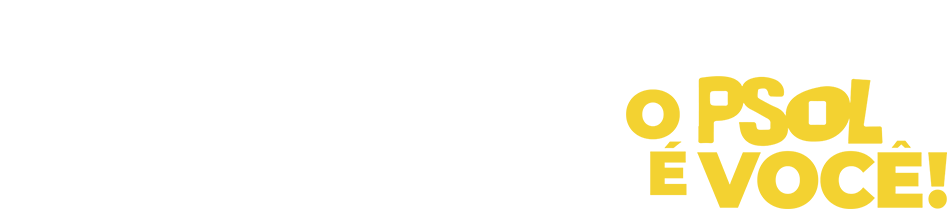
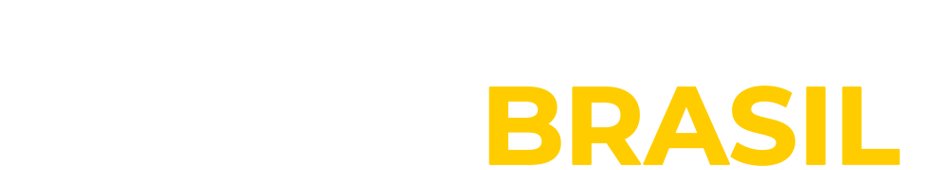
Update header

Changed region(s): [[0.4941, 0.3529, 1.0, 1.0]]

diff --git a/src/stylesheets/layout/_header.scss b/src/stylesheets/layout/_header.scss
@@ -1,42 +1,46 @@
 .site-header {
 	position: relative;
 	color: palette('white');
-	min-height: 560px;
+	min-height: 640px;
 	height: 70vh;
 	background-color: palette('gray', 'dark');
 	background-image:
-	url('../assets/images/backgrounds/capa-boulos_sonia-small.png'),
-	url('../assets/images/backgrounds/capa-fundo-small.jpg');
+	url('../assets/images/backgrounds/capa-fundo-very-small.jpg');
 	background-size:
-		450px auto,
-		cover;
+	cover;
 	background-position:
-		-5% bottom,
-		0 0;
+	center bottom;
+
 
 	@media screen and (min-width: breakpoint('phablet')) {
-	background-size:
-		500px auto,
+		background-image:
+		url('../assets/images/backgrounds/capa-boulos_sonia-small.png'),
+		url('../assets/images/backgrounds/capa-fundo-small.jpg');
+		height: 90vh;
+		background-size:
+		550px auto,
 		cover;
-	background-position:
-		55% bottom,
+		background-position:
+		1em bottom,
 		0 0;
-		min-height: 680px;
+		min-height: 620px;
 	}
 
 	@media screen and (min-width: breakpoint('tablet')) {
-		min-height: 800px;
+		background-image:
+		url('../assets/images/backgrounds/capa-boulos_sonia-medium.png'),
+		url('../assets/images/backgrounds/capa-fundo-medium.jpg');
 		height: 90vh;
 		background-size:
-		600px auto,
+		680px auto,
 		cover;
 		background-position:
-		55% bottom,
+		1em bottom,
 		0 0;
+		min-height: 720px;
 	}
 
 	@media screen and (min-width: breakpoint('desktop')) {
-		min-height: 810px;
 		background-image:
 		url('../assets/images/backgrounds/capa-boulos_sonia.png'),
 		url('../assets/images/backgrounds/capa-fundo.jpg');
@@ -46,14 +50,18 @@
 		background-position:
 		center bottom,
 		0 0;
+		min-height: 780px;
 	}
 
 	@media screen and (min-width: breakpoint('wide')) {
 		height: 100vh;
-		min-height: 910px;
+		min-height: 870px;
+		background-image:
+		url('../assets/images/backgrounds/capa-boulos_sonia.png'),
+		url('../assets/images/backgrounds/capa-fundo.jpg');
 		background-size:
-			870px auto,
-			cover;
+		750px auto,
+		cover;
 		background-position:
 			center bottom,
 			0 0;
@@ -70,17 +78,17 @@
 }
 
 #home__greetings {
-	padding-top: 5em;
+	margin-top: 10em;
 
 	@media screen and (min-width: breakpoint('phablet')) {
-		padding-top: 4.5em;
+		margin-top: 10em;
 	}
 
 	@media screen and (min-width: breakpoint('tablet')) {
-		padding-top: 2.5em;
+		margin-top: 10em;
 	}
-	@media screen and (min-width: breakpoint('desktop')) {
-		padding-top: 3.8em;
+	@media screen and (min-width: breakpoint('wide')) {
+		margin-top: 12em;
 	}
 }
 
@@ -92,8 +100,8 @@
 	text-align: center;
 
 	@media screen and (min-width: breakpoint('desktop')) {
+		max-width: 760px;
 		text-align: right;
-		max-width: 947px;
 	}
 	@media screen and (min-width: breakpoint('wide')) {
 		max-width: 1000px;
@@ -101,65 +109,84 @@
 }
 
 .site-label h1 {
-	position: relative;
-	@include image-replacement;
-	min-width: 280px;
-	min-height: 159px;
-	margin-bottom: -0.1em;
-	display: block;
+	padding: 0;
+	font-family: 'Montserrat', sans-serif;
+	text-align: center;
+	line-height: 1em;
+	font-weight: bold;
+	color: palette('header','white');
+	margin: 0;
 
-	background-image: url('../assets/images/backgrounds/text-image-phone.png');
-	background-position: center center;
-	background-size: 280px 159px;
+	&:first-child span {
+		color: transparent;
+		-webkit-text-stroke-width: $stroke / 3;
+		-webkit-text-stroke-color: palette('header','white');
 
-	@media screen and (min-width: breakpoint('phablet')) {
-		min-width: 430px;
-		min-height: 244px;
-		background-image: url('../assets/images/backgrounds/text-image-phablet.png');
-		background-position: center center;
-		background-size: 430px 244px;
-		margin-bottom: 2px;
+		@media screen and (min-width: breakpoint('tablet')) {
+			-webkit-text-stroke-width: $stroke / 2;
+		}
+		@media screen and (min-width: breakpoint('wide')) {
+			-webkit-text-stroke-width: $stroke;
+		}
+
 	}
-	@media screen and (min-width: breakpoint('tablet')) {
-		min-width: 580px;
-		min-height: 329px;
-		background-image: url('../assets/images/backgrounds/text-image-tablet.png');
-		background-position: center center;
-		background-size: 580px 329px;
+	&:nth-child(2) span {
+		font-weight: 900;
+		 color: palette('header','yellow');
+		 font-size: 1.2em;
+
 	}
-	@media screen and (min-width: breakpoint('desktop')) {
-		min-width: 947px;
-		min-height: 209px;
-		background-image: url('../assets/images/backgrounds/text-image-desktop.png');
-		background-position: center center;
-		background-size: 947px 209px;
+
+
+}
+
+.site-label h1 {
+	color: palette('white');
+	text-transform: uppercase;
+	font-size: ms(3);
+	font-weight: 800;
+	letter-spacing: -3px;
+
+	@media screen and(min-width: breakpoint('phablet')) {
+		font-size: 2.7em;
 	}
-	@media screen and (min-width: breakpoint('wide')) {
-		min-width: 1000px;
-		min-height: 222px;
-		background-image: url('../assets/images/backgrounds/text-image-wide.png');
-		background-position: center center;
-		background-size: 1000px 222px;
+
+	@media screen and(min-width: breakpoint('tablet')) {
+		font-size: ms(6);
+	}
+
+	@media screen and(min-width: breakpoint('desktop')) {
+		font-size: ms(7);
+	}
+
+	@media screen and(min-width: breakpoint('wide')) {
+		font-size: ms(8);
 	}
 
 }
 
+
 .site-label .call-to-action {
+	font-family: 'Montserrat', sans-serif;
 	position: relative;
 	z-index: 2;
 	font-size: ms(2);
 	text-decoration: none;
-	font-weight: 800;
-	font-style: italic;
+	font-weight: bold;
 	text-transform: uppercase;
-	color: palette('white');
-	font-weight: 800;
+	color: #FFF;
+	text-align: right;
 
 	@media screen and (min-width: breakpoint('desktop')) {
 		font-size: ms(3);
 	}
+
 	@media screen and (min-width: breakpoint('wide')) {
 		font-size: ms(3);
 	}
-}
 
+	& span {
+		color: palette('header','yellow');
+		font-weight: 900;
+	}
+}

diff --git a/src/stylesheets/abstracts/_variables.scss b/src/stylesheets/abstracts/_variables.scss
@@ -188,6 +188,10 @@ $palette: (
 		'light': rgb(229, 231, 234),
 		'base': rgb(51, 51, 51),
 	),
+	'header': (
+		'white': rgb(255, 255, 255),
+		'yellow': rgb(255, 204, 0),
+	),
 );
 
 
@@ -199,9 +203,9 @@ $rounded-corner: 5px !default;
 /// border default width
 /// @todo Customize it to match your design.
 /// @type number
-$stroke: 0 !default;
+$stroke: 3px !default;
 
-/// gutter default width
+/// gutter default width768
 /// @todo Customize it to match your design.
 /// @type number
 $gutter: $leading * $body-font-size / 1em * 1rem;

diff --git a/src/stylesheets/base/_typography.scss b/src/stylesheets/base/_typography.scss
@@ -75,7 +75,7 @@ dt a {
 h1 {
 	color: palette('white');
 	text-transform: uppercase;
-	font-size: ms(4);
+	font-size: ms(3);
 	font-weight: 800;
 	letter-spacing: -3px;
 
@@ -84,11 +84,15 @@ h1 {
 	}
 
 	@media screen and(min-width: breakpoint('tablet')) {
+		font-size: ms(6);
+	}
+
+	@media screen and(min-width: breakpoint('desktop')) {
 		font-size: ms(7);
 	}
 
 	@media screen and(min-width: breakpoint('wide')) {
-		font-size: ms(7);
+		font-size: ms(8);
 	}
 
 }

diff --git a/src/components/layout/Header.vue b/src/components/layout/Header.vue
@@ -32,9 +32,10 @@
 		</nav>
 		<div id="home__greetings">
 			<div class="site-label">
-				<h1>Partido Necessário. Quem financia o PSOL é você!</h1>
+				<h1><span>Vamos</span> juntos</h1>
+				<h1>Mudar o <span>Brasil</span>!</h1>
 				<a class="call-to-action" href="#doar" v-scroll-to="'#doar'">
-					> quero doar
+					<span>#</span>FINANCIE<span class="heavy">PSOL</span>
 				</a>
 			</div>
 		</div>

diff --git a/public/index.html b/public/index.html
@@ -65,6 +65,8 @@
 			ga('send', 'pageview');
 		</script>
 	<link href="https://fonts.googleapis.com/css?family=Open+Sans:400,400i,600,600i,700,700i,800,800i" rel="stylesheet">
+	<link href="https://fonts.googleapis.com/css?family=Montserrat:400,600,700,800,900" rel="stylesheet">
+
 	</head>
 	<body class="home-page">
 		<noscript>
